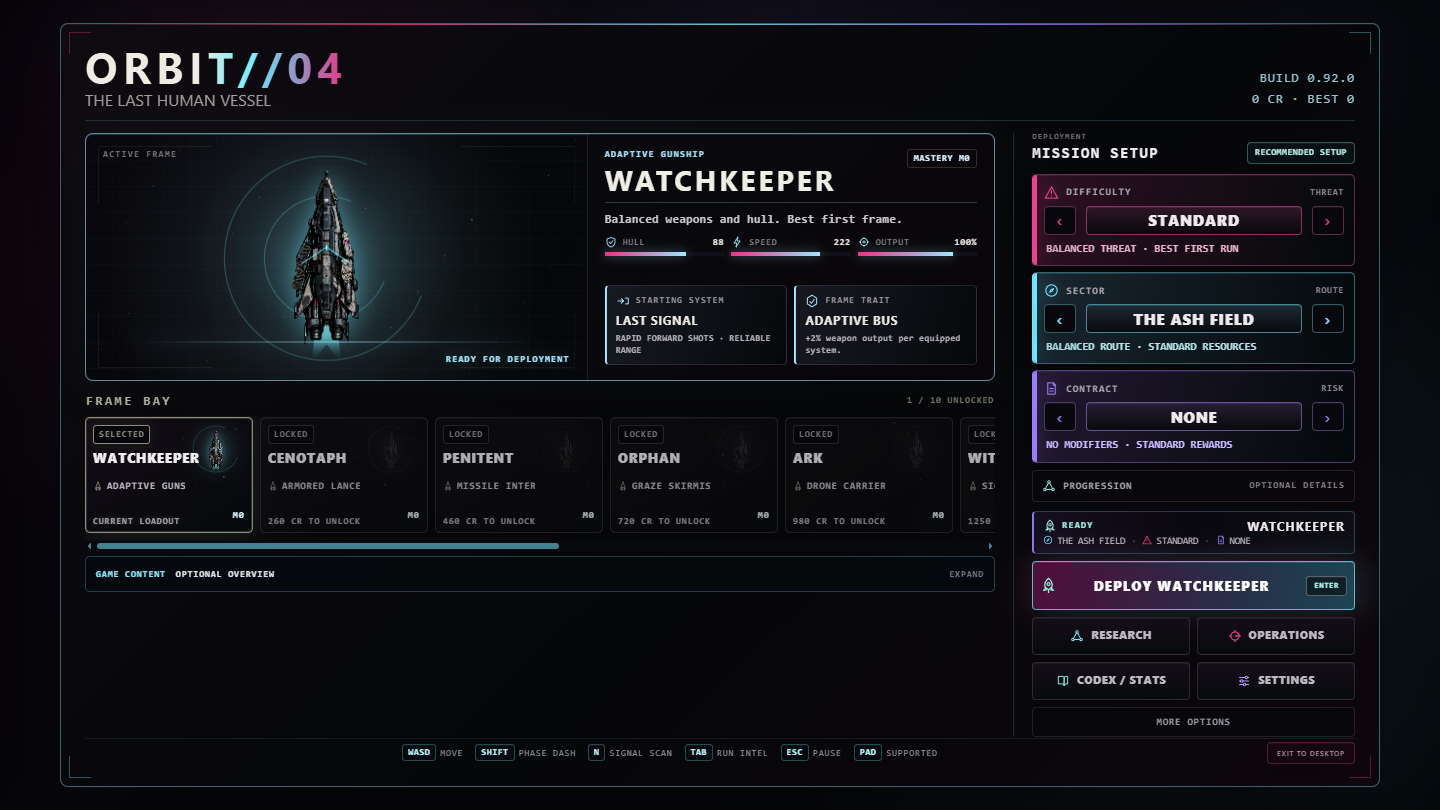
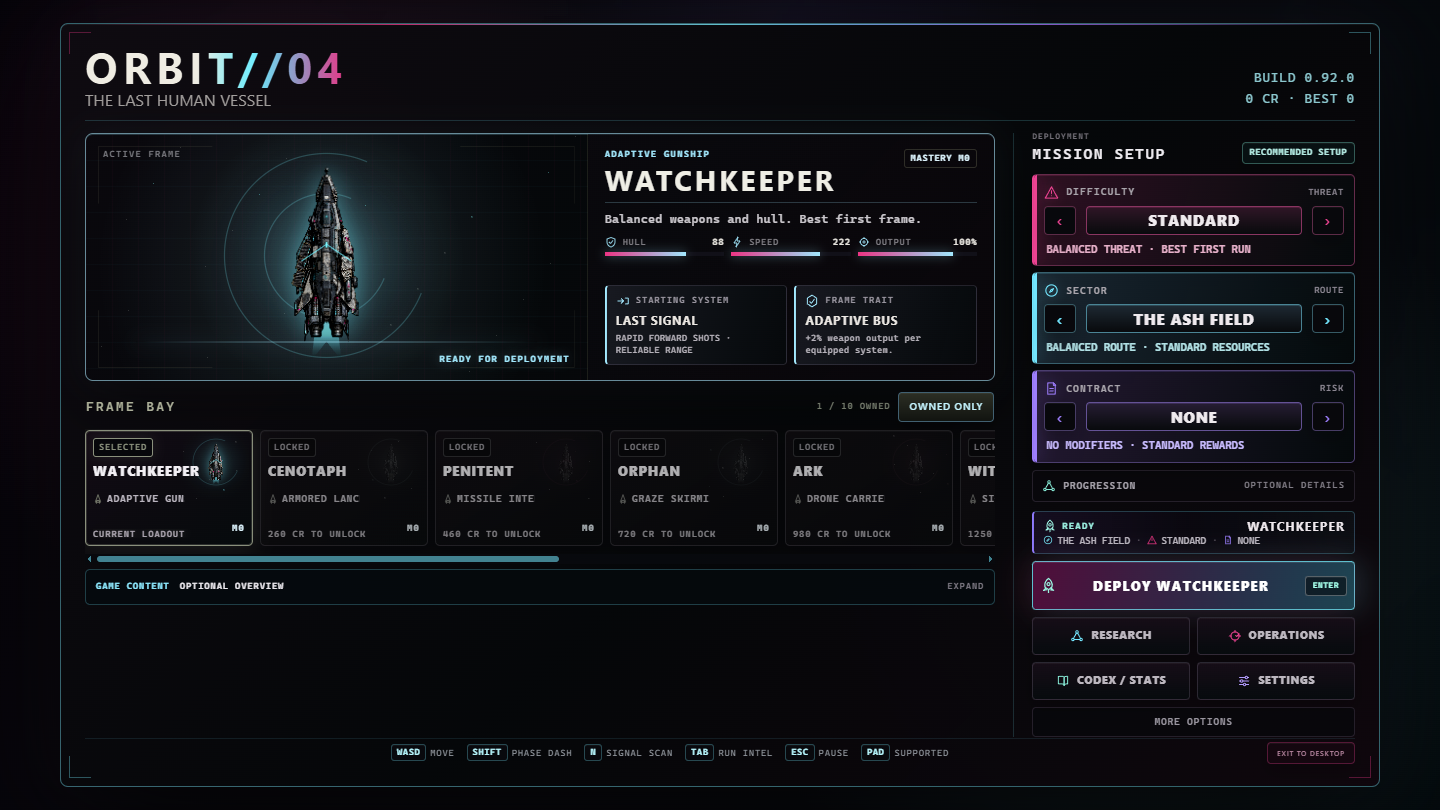
feat: preview locked frames and improve menu navigation

diff --git a/game.js b/game.js
@@ -469,6 +469,19 @@ function renderShipCanvas(canvas,id,large=false,locked=false){
   }
   ctx.save();ctx.fillStyle=locked?'rgba(151,155,147,.34)':hex(pal.accent,.64);ctx.font=`600 ${large?11:7}px ui-monospace, monospace`;ctx.textAlign='center';ctx.textBaseline='middle';ctx.fillText(hangarHullImageFailed?'HULL ASSET OFFLINE':'LOADING HULL',cx,cy);ctx.restore();return false;
 }
+let previewFrameId='',ownedFramesOnly=false;
+function frameUnlockCost(id){return id==='oracle'&&save.achievements.includes('iff_friend')?Math.floor(SHIPS[id].cost*.7):SHIPS[id].cost}
+function previewFrame(id){
+  if(!SHIPS[id])return false;previewFrameId=id;
+  if(save.unlocked.includes(id)){save.selected=id;persist(false)}
+  AUDIO.sfx('ui');renderMenu();return true
+}
+function unlockPreviewFrame(){
+  const id=previewFrameId;if(!SHIPS[id]||save.unlocked.includes(id))return false;
+  const cost=frameUnlockCost(id);if(save.credits<cost)return false;
+  save.credits-=cost;save.unlocked.push(id);save.selected=id;persist(false);checkMetaAchievements();renderMenu();
+  $('startBtn').focus?.({preventScroll:true});AUDIO.sfx('research');toast('FRAME UNLOCKED',`${SHIPS[id].name} is ready for deployment.`);return true
+}
 function renderFrameBrief(id){
   const s=SHIPS[id]||SHIPS.striker,w=WEAPON_META[s.weapon],mastery=masteryLevel(id),pal=hangarShipPalette(id);
   $('frameStage').style['--frame-accent']=pal.accent;$('frameStage').style['--frame-edge']=pal.edge;
@@ -476,27 +489,37 @@ function renderFrameBrief(id){
   $('frameWeapon').textContent=w.name;$('frameWeaponDesc').textContent=w.quick||w.desc;$('frameWeaponCard').title=w.desc;$('frameTrait').textContent=s.trait;$('frameTraitDesc').textContent=s.traitDesc;$('frameTraitCard').title=s.traitDesc;$('frameAvailability').textContent='READY FOR DEPLOYMENT';
   $('frameHullValue').textContent=s.hp;$('frameSpeedValue').textContent=s.speed;$('frameOutputValue').textContent=`${Math.round(s.damage*100)}%`;
   $('frameHullBar').style.width=`${clamp(s.hp/130*100,8,100)}%`;$('frameSpeedBar').style.width=`${clamp(s.speed/300*100,8,100)}%`;$('frameOutputBar').style.width=`${clamp(s.damage/1.25*100,8,100)}%`;
-  $('frameRosterCount').textContent=`${save.unlocked.length} / ${Object.keys(SHIPS).length} UNLOCKED`;renderShipCanvas($('framePreview'),id,true,false);
+  const locked=!save.unlocked.includes(id),cost=frameUnlockCost(id);
+  $('frameAvailability').textContent=locked?'LOCKED FRAME PREVIEW':'READY FOR DEPLOYMENT';
+  $('framePurchase').classList.toggle('hidden',!locked);
+  $('framePurchaseHint').textContent=locked?`${save.credits} CR AVAILABLE${save.credits<cost?` · NEED ${cost-save.credits} MORE`:''}`:'';
+  $('frameUnlockBtn').textContent=`UNLOCK ${s.name} · ${cost} CR`;$('frameUnlockBtn').disabled=!locked||save.credits<cost;
+  $('frameRosterCount').textContent=`${save.unlocked.length} / ${Object.keys(SHIPS).length} OWNED`;renderShipCanvas($('framePreview'),id,true,false);
 }
 function cycleUnlockedFrame(direction=1){
   const frames=Object.keys(SHIPS).filter(id=>save.unlocked.includes(id));if(frames.length<2)return false;
-  const current=Math.max(0,frames.indexOf(save.selected));save.selected=frames[(current+direction+frames.length)%frames.length];AUDIO.sfx('ui');persist();return true
+  const current=Math.max(0,frames.indexOf(save.selected));save.selected=frames[(current+direction+frames.length)%frames.length];previewFrameId=save.selected;AUDIO.sfx('ui');persist();return true
 }
 function renderMenu(){
   $('saveLine').textContent=`${save.credits} CR · BEST ${Math.floor(save.bestScore)}`;
   $('researchLevelText').textContent=researchLevels();$('achievementCountText').textContent=`${save.achievements.length}/${Object.keys(ACHIEVEMENTS).length}`;$('lifetimeKillsText').textContent=save.totalKills;$('operationCountText').textContent=`${save.claimedOperations.length}/${Object.keys(OPERATIONS).length}${readyOperations().length?` · ${readyOperations().length} READY`:''}`;
   $('contentFrameCount').textContent=Object.keys(SHIPS).length;$('contentWeaponCount').textContent=Object.keys(WEAPON_META).length;$('contentEnemyCount').textContent=Object.keys(ENEMY_META).filter(id=>id!=='boss').length;$('contentLinkCount').textContent=Object.keys(SYNERGIES).length;$('contentSectorCount').textContent=Object.keys(SECTORS).length;
   const d=DIFFICULTIES[save.difficulty]||DIFFICULTIES.STANDARD;$('difficultyBtn').textContent=d.name;$('difficultyBtn').title=d.desc;$('difficultyBtn').setAttribute('aria-label',`Current difficulty: ${d.name}. ${d.desc}`);$('difficultyDesc').textContent=d.menu||d.desc;const contract=CONTRACTS[save.contract]||CONTRACTS.NONE;$('contractBtn').textContent=contract.name;$('contractBtn').title=contract.desc;$('contractBtn').setAttribute('aria-label',`Current contract: ${contract.name}. ${contract.desc}`);$('contractDesc').textContent=contract.menu||contract.desc;const sector=SECTORS[save.sector]||SECTORS.AURORA;$('sectorBtn').textContent=sector.name;$('sectorBtn').title=sector.desc;$('sectorBtn').setAttribute('aria-label',`Current sector: ${sector.name}. ${sector.desc}`);$('sectorDesc').textContent=sector.menu||sector.desc;
-  const selectedId=save.unlocked.includes(save.selected)&&SHIPS[save.selected]?save.selected:'striker';if(save.selected!==selectedId)save.selected=selectedId;renderFrameBrief(selectedId);
+  const selectedId=save.unlocked.includes(save.selected)&&SHIPS[save.selected]?save.selected:'striker';if(save.selected!==selectedId)save.selected=selectedId;
+  const briefId=SHIPS[previewFrameId]&&!save.unlocked.includes(previewFrameId)&&!ownedFramesOnly?previewFrameId:selectedId;renderFrameBrief(briefId);
   const selectedShip=SHIPS[selectedId];$('launchSummary').innerHTML=`<span>${uiIconMarkup('launch')} READY</span><b>${selectedShip.name}</b><i>${uiIconMarkup('sector')} ${sector.name} <em>·</em> ${uiIconMarkup('threat')} ${d.name} <em>·</em> ${uiIconMarkup('contract')} ${contract.name}</i>`;$('startBtn').innerHTML=`${uiIconMarkup('launch')}<span>DEPLOY ${selectedShip.name}</span><kbd>ENTER</kbd>`;
-  const grid=$('shipGrid');grid.innerHTML='';
+  const grid=$('shipGrid'),scrollLeft=grid.scrollLeft||0,focusedFrame=document.activeElement?.dataset?.frameId;grid.innerHTML='';
+  $('frameFilterBtn').setAttribute('aria-pressed',String(ownedFramesOnly));$('frameFilterBtn').textContent=ownedFramesOnly?'SHOW ALL FRAMES':'OWNED ONLY';
   for(const [id,s] of Object.entries(SHIPS)){
+    if(ownedFramesOnly&&!save.unlocked.includes(id))continue;
     const unlocked=save.unlocked.includes(id),selected=save.selected===id;const b=document.createElement('button');b.className=`shipCard${selected?' selected':''}`;
-    const cost=id==='oracle'&&save.achievements.includes('iff_friend')?Math.floor(s.cost*.7):s.cost;
+    const cost=frameUnlockCost(id);b.dataset.frameId=id;b.setAttribute('aria-pressed',String(briefId===id));b.classList.toggle('previewed',briefId===id&&!selected);
     const mastery=masteryLevel(id);b.style['--ship-accent']=hangarShipPalette(id).accent;b.dataset.state=selected?'selected':unlocked?'available':'locked';b.setAttribute('aria-label',`${s.name}, ${s.role}${unlocked?', unlocked':`, locked, ${cost} credits`}`);b.innerHTML=`<span class="shipCardBadge">${selected?'SELECTED':unlocked?'READY':'LOCKED'}</span><canvas class="shipThumb" width="150" height="68" aria-hidden="true"></canvas><span class="shipCardTop"><b class="shipName">${s.name}</b><i style="color:${masteryColor(mastery)}">M${mastery}</i></span><span class="shipCardRole">${uiIconMarkup('frame')}${s.role}</span><span class="shipCardStatus">${selected?'CURRENT LOADOUT':unlocked?'SELECT FRAME':`${cost} CR TO UNLOCK`}</span>`;
-    b.onclick=()=>{AUDIO.sfx('ui');if(!unlocked){if(save.credits>=cost){save.credits-=cost;save.unlocked.push(id);save.selected=id;persist();checkMetaAchievements()}else toast('INSUFFICIENT CREDITS',`You need ${cost-save.credits} more credits to unlock ${s.name}.`);return}save.selected=id;persist()};grid.appendChild(b);
+    b.onclick=()=>previewFrame(id);grid.appendChild(b);
     renderShipCanvas(b.querySelector('canvas'),id,false,!unlocked);
+    if(focusedFrame===id)b.focus?.({preventScroll:true});
   }
+  grid.scrollLeft=scrollLeft;
   $('startBtn').disabled=!save.unlocked.includes(save.selected);
   const singleFrame=save.unlocked.filter(id=>SHIPS[id]).length<2;$('framePrevBtn').disabled=singleFrame;$('frameNextBtn').disabled=singleFrame;
   if(SUPPORT_URL&&BUILD_TARGET==='web')$('supportBtn').classList.remove('hidden');else $('supportBtn').classList.add('hidden');
@@ -624,18 +647,18 @@ const keys={},touch={active:false,startX:0,startY:0,x:0,y:0},mouse={active:false
 addEventListener('pointerdown',()=>AUDIO.ensure(),{passive:true});
 addEventListener('keydown',e=>{
   const k=e.key.toLowerCase();if(k==='tab'&&(e.altKey||e.metaKey)){keys[k]=false;return}keys[k]=true;AUDIO.ensure();
-  if(['arrowup','arrowdown','arrowleft','arrowright',' ','tab'].includes(k))e.preventDefault();
+  if(!visibleOverlay()&&['arrowup','arrowdown','arrowleft','arrowright',' ','tab'].includes(k))e.preventDefault();
   if($('briefingScreen').classList.contains('show')){if(['enter',' ','escape'].includes(k))dismissPilotBriefing();return}
   if($('confirmScreen').classList.contains('show')){if(k==='escape')closeRunConfirmation();return}
   if($('titleScreen').classList.contains('show')&&!e.repeat){
     if(k==='q'){cycleUnlockedFrame(-1);return}if(k==='e'){cycleUnlockedFrame(1);return}
-    if(k==='enter'&&!['BUTTON','INPUT','SELECT','TEXTAREA'].includes(e.target?.tagName)){startRun();return}
+    if(k==='enter'&&!['BUTTON','INPUT','SELECT','TEXTAREA','SUMMARY'].includes(e.target?.tagName)){startRun();return}
   }
   if(state?.reliquaryOpen){if(['escape','enter',' ','e'].includes(k)){reliquarySequence?.complete?claimReliquary():revealReliquaryNow()}return}
   if(state?.archiveOpen){if(['escape','enter',' ','e'].includes(k))closeArchiveFragment();return}
   if(k==='escape'&&$('loadoutScreen').classList.contains('show')){closeRunIntel();return}
   if(k==='escape'&&$('settingsScreen').classList.contains('show')){hide('settingsScreen');return}
-  if((k==='tab'||k==='b')&&state?.mode==='run'&&!state.choosing&&!$('settingsScreen').classList.contains('show')){$('loadoutScreen').classList.contains('show')?closeRunIntel():openRunIntel();return}
+if((k==='tab'||k==='b')&&state?.mode==='run'&&(!visibleOverlay()||$('loadoutScreen').classList.contains('show'))&&!state.choosing&&!$('settingsScreen').classList.contains('show')){$('loadoutScreen').classList.contains('show')?closeRunIntel():openRunIntel();return}
   if((k==='p'||k==='escape')&&state?.mode==='run'&&!state.choosing&&!$('settingsScreen').classList.contains('show'))togglePause();
   if(k==='shift'&&!e.repeat)tryPhaseDash();if(k==='n'&&!e.repeat&&state?.mode==='run'&&!state.choosing&&!state.paused)cycleSignalFilter();if(k==='r'&&state?.gameOver)startRun();if(k==='f')toggleFullscreen();
   if(k==='m'){save.settings.audio=save.settings.audio==='ON'?'OFF':'ON';persist(false);AUDIO.syncEnabled();renderSettings();AUDIO.sfx('ui');toast(save.settings.audio==='ON'?'AUDIO ENABLED':'AUDIO MUTED','Press M to toggle output.')}
@@ -657,7 +680,7 @@ function toggleFullscreen(){document.fullscreenElement?document.exitFullscreen()
 
 function pollGamepadPause(){const gps=navigator.getGamepads?.()||[],gp=gps.find(Boolean),pressed=!!(gp&&(gp.buttons[9]?.pressed||gp.buttons[8]?.pressed));if(pressed&&!gamepadPauseLatch&&state?.mode==='run'&&!state.choosing&&!state.archiveOpen&&!state.reliquaryOpen&&!$('settingsScreen').classList.contains('show'))togglePause();gamepadPauseLatch=pressed}
 function visibleOverlay(){const overlays=[...(document.querySelectorAll?.('.overlay.show')||[])];return overlays.at(-1)||null}
-function gamepadUiButtons(overlay){return overlay?[...overlay.querySelectorAll('button')].filter(b=>!b.disabled&&!b.classList.contains('hidden')&&b.offsetParent!==null):[]}
+function gamepadUiButtons(overlay){return overlay?[...overlay.querySelectorAll('button, summary')].filter(b=>{const closed=b.closest('details:not([open])');return !b.disabled&&!b.classList.contains('hidden')&&b.offsetParent!==null&&(!closed||b.tagName==='SUMMARY'&&b.parentElement===closed)}):[]}
 function focusGamepadDefault(overlay,buttons){if(!buttons.length)return;const preferred=buttons.find(b=>b.classList.contains('primary'))||buttons.find(b=>b.classList.contains('selected'))||buttons[0];preferred.focus?.({preventScroll:true});preferred.scrollIntoView?.({block:'nearest',inline:'nearest'})}
 function moveGamepadFocus(buttons,dx,dy){if(!buttons.length)return;let cur=document.activeElement;if(!buttons.includes(cur)){focusGamepadDefault(visibleOverlay(),buttons);return}const r=cur.getBoundingClientRect(),cx=r.left+r.width/2,cy=r.top+r.height/2;let best=null,bestScore=Infinity;for(const b of buttons){if(b===cur)continue;const q=b.getBoundingClientRect(),x=q.left+q.width/2,y=q.top+q.height/2,vx=x-cx,vy=y-cy;if(dx&&Math.sign(vx)!==Math.sign(dx)||dy&&Math.sign(vy)!==Math.sign(dy))continue;const primary=dx?Math.abs(vx):Math.abs(vy),cross=dx?Math.abs(vy):Math.abs(vx),score=primary+cross*2.4;if(primary<3||score>=bestScore)continue;best=b;bestScore=score}if(!best){const i=buttons.indexOf(cur),step=dx<0||dy<0?-1:1;best=buttons[(i+step+buttons.length)%buttons.length]}best.focus?.({preventScroll:true});best.scrollIntoView?.({block:'nearest',inline:'nearest'});AUDIO.sfx('ui')}
 function gamepadBack(overlay){if(!overlay)return;const back=overlay.querySelector('[data-close], #confirmCancelBtn, #archiveContinueBtn, #reliquaryClaimBtn:not(.hidden), #reliquarySkipBtn:not(.hidden), #loadoutBackBtn, #settingsBackBtn, #resumeBtn');if(back&&!back.disabled){back.click();back.focus?.({preventScroll:true})}}
@@ -836,6 +859,9 @@ function startRun(){
 }
 $('startBtn').onclick=startRun;
 $('framePrevBtn').onclick=()=>cycleUnlockedFrame(-1);$('frameNextBtn').onclick=()=>cycleUnlockedFrame(1);
+$('frameUnlockBtn').onclick=unlockPreviewFrame;
+$('frameReturnBtn').onclick=()=>{previewFrameId='';renderMenu();$('startBtn').focus?.()};
+$('frameFilterBtn').onclick=()=>{ownedFramesOnly=!ownedFramesOnly;previewFrameId='';renderMenu();AUDIO.sfx('ui')};
 function gainXp(n){state.xp+=xpGain(n)*(state.sector?.xp||1);while(state.xp>=state.xpNeed&&!state.choosing){state.xp-=state.xpNeed;state.level++;state.xpNeed=Math.floor(state.xpNeed*1.16+4);save.stats.highestLevel=Math.max(save.stats.highestLevel,state.level);if((state.level===10||state.level===20)&&state.doctrinePicks<2)openDoctrine(true);else openLevel();break}}
 function enemyBase(type){return {scout:{hp:24,speed:52,r:9,damage:13,xp:1,color:'#ff4d86'},charger:{hp:42,speed:89,r:8,damage:17,xp:2,color:'#ff684c'},tank:{hp:118,speed:31,r:15,damage:26,xp:3,color:'#d79d49'},gunner:{hp:58,speed:39,r:11,damage:14,xp:3,color:'#ff2d82'},splitter:{hp:66,speed:46,r:12,damage:18,xp:3,color:'#d64b79'},sniper:{hp:48,speed:30,r:10,damage:12,xp:4,color:'#a879ff'},stalker:{hp:51,speed:67,r:9,damage:16,xp:3,color:'#d84dbe'},weaver:{hp:72,speed:43,r:11,damage:13,xp:4,color:'#7b82ff'},warden:{hp:142,speed:27,r:16,damage:18,xp:6,color:'#51c6a8'},reaper:{hp:74,speed:76,r:10,damage:20,xp:4,color:'#bdf34b'},harrower:{hp:86,speed:48,r:12,damage:15,xp:5,color:'#ff8b3d'},moth:{hp:34,speed:72,r:8,damage:14,xp:2,color:'#e75cff'},anchor:{hp:96,speed:34,r:13,damage:13,xp:5,color:'#5f7cff'}}[type]}
 function selectEnemyType(time,roll){if(time>330&&roll<.035)return'harrower';if(time>235&&roll<.075)return'anchor';if(time>270&&roll<.12)return'reaper';if(time>260&&roll<.16)return'warden';if(time>210&&roll<.215)return'sniper';if(time>165&&roll<.30)return'weaver';if(time>150&&roll<.39)return'splitter';if(time>100&&roll<.48)return'gunner';if(time>95&&roll<.56)return'moth';if(time>80&&roll<.61)return'stalker';if(time>55&&roll<.69)return'charger';const tankCeiling=time>55?.84:.14;if(time>25&&roll<tankCeiling)return'tank';return'scout'}

diff --git a/tests/smoke.js b/tests/smoke.js
@@ -40,6 +40,12 @@ vm.runInContext(`
   if(!rendererConfig.render.antialiasGL||!rendererConfig.render.desynchronized||rendererConfig.fps.target!==120) throw new Error('premium renderer profile is incomplete');
   save.settings.audio='OFF';document.getElementById('difficultyPrev').onclick();if(save.difficulty!=='HARDLINE') throw new Error('previous difficulty control failed');document.getElementById('difficultyNext').onclick();if(save.difficulty!=='STANDARD') throw new Error('next difficulty control failed');document.getElementById('contractPrev').onclick();if(save.contract!=='FRAGILE') throw new Error('previous contract control failed');document.getElementById('contractNext').onclick();if(save.contract!=='NONE') throw new Error('next contract control failed');if(!document.getElementById('launchSummary').innerHTML.includes('WATCHKEEPER')||!document.getElementById('startBtn').innerHTML.includes('DEPLOY WATCHKEEPER')||!document.getElementById('startBtn').innerHTML.includes('ENTER')) throw new Error('deployment summary is incomplete');if(Number(document.getElementById('contentFrameCount').textContent)!==10||Number(document.getElementById('contentWeaponCount').textContent)!==11||Number(document.getElementById('contentEnemyCount').textContent)!==13||Number(document.getElementById('contentLinkCount').textContent)!==9||Number(document.getElementById('contentSectorCount').textContent)!==4)throw new Error('menu content proof does not match runtime data');save.difficulty='BLACKOUT';save.sector='NULL';save.contract='SWARM';if(!applyRecommendedSetup()||save.difficulty!=='STANDARD'||save.sector!=='AURORA'||save.contract!=='NONE')throw new Error('recommended first-run setup failed');save.briefingSeen=false;if(!previewPilotBriefing()||!document.getElementById('briefingScreen').classList.contains('show')||!dismissPilotBriefing()||document.getElementById('briefingScreen').classList.contains('show')||!save.briefingSeen)throw new Error('menu pilot guide preview failed');if(!document.getElementById('framePrevBtn').disabled||!document.getElementById('frameNextBtn').disabled)throw new Error('single-frame hangar navigation should be disabled');save.unlocked.push('bastion');if(!cycleUnlockedFrame(1)||save.selected!=='bastion')throw new Error('next-frame hangar shortcut failed');if(!cycleUnlockedFrame(-1)||save.selected!=='striker')throw new Error('previous-frame hangar shortcut failed');save.unlocked.pop();renderMenu();
   if(document.getElementById('framePreview').dataset.shipAsset!==ENGINE_ASSETS.player||document.getElementById('framePreview').dataset.previewSource!=='runtime-player-hull'||document.getElementById('framePreview').dataset.frame!==save.selected)throw new Error('hangar preview is not bound to the deployed player hull');
+  const beforeHangar={credits:save.credits,selected:save.selected,unlocked:[...save.unlocked]};
+  save.credits=0;previewFrame('bastion');if(save.selected!==beforeHangar.selected||save.credits!==0||unlockPreviewFrame()||!document.getElementById('frameUnlockBtn').disabled)throw new Error('locked preview must not select or buy an unaffordable frame');
+  save.credits=SHIPS.bastion.cost;previewFrame('bastion');if(save.credits!==SHIPS.bastion.cost||save.unlocked.includes('bastion'))throw new Error('preview spent credits without unlock action');
+  if(!unlockPreviewFrame()||save.credits!==0||save.selected!=='bastion'||!save.unlocked.includes('bastion')||unlockPreviewFrame())throw new Error('explicit unlock must charge exactly once and select the frame');
+  document.getElementById('frameFilterBtn').onclick();if(document.getElementById('shipGrid').children.length!==save.unlocked.length)throw new Error('owned frame filter leaked locked cards');document.getElementById('frameFilterBtn').onclick();if(document.getElementById('shipGrid').children.length!==Object.keys(SHIPS).length)throw new Error('all frames filter did not restore the roster');
+  save.credits=beforeHangar.credits;save.selected=beforeHangar.selected;save.unlocked=beforeHangar.unlocked;previewFrameId='';renderMenu();
   if(!document.getElementById('difficultyDesc').textContent.includes('BEST FIRST RUN')||!document.getElementById('sectorDesc').textContent.includes('STANDARD RESOURCES')||!document.getElementById('frameWeaponDesc').textContent.includes('RAPID FORWARD SHOTS'))throw new Error('main menu info boxes do not explain player outcomes');
   if(selectFieldDirective()!=='recovery') throw new Error('first directive rotation is incorrect');save.runs=1;if(selectFieldDirective()!=='transit') throw new Error('second directive rotation is incorrect');save.runs=2;if(selectFieldDirective()!=='attrition') throw new Error('third directive rotation is incorrect');save.runs=0;startRun();
   save.briefingSeen=false;if(!openPilotBriefing()||!state.paused||!document.getElementById('briefingScreen').classList.contains('show'))throw new Error('first-deployment briefing did not suspend the run');if(!dismissPilotBriefing()||state.paused||!save.briefingSeen||document.getElementById('briefingScreen').classList.contains('show'))throw new Error('first-deployment briefing did not persist completion');

diff --git a/styles.css b/styles.css
@@ -471,6 +471,9 @@ button:hover:not(:disabled){border-color:rgba(195,190,140,.78);background:linear
 #titleScreen .footerHelp kbd{font-size:calc(8px * var(--ui-scale))}
 
 /* Focused launch flow: essential choices stay visible; secondary detail is opt-in. */
+#titleScreen .rosterHeading{flex-wrap:wrap;gap:8px}#titleScreen .rosterHeading>span{margin-left:auto}#titleScreen #frameFilterBtn{min-height:30px;padding:6px 10px;font-size:10px;border-color:#376071;color:#b9f4ff}#titleScreen #frameFilterBtn[aria-pressed="true"]{background:#123640;border-color:#55e1ef;color:#fff}
+#titleScreen .framePurchase{display:flex;flex-wrap:wrap;align-items:center;gap:8px;margin:8px 0;padding:10px;border:1px solid #75619d;border-radius:5px;background:#100f1d}#titleScreen .framePurchase.hidden{display:none}#titleScreen .framePurchase>span{flex:1 1 150px;font:600 12px/1.4 var(--mono);color:#d6c8ed}#titleScreen .framePurchase button{min-height:36px;font-size:11px}#titleScreen #frameUnlockBtn{border-color:#a780eb;color:#eee0ff}
+#titleScreen .shipCard.previewed{border-color:#b48aff;box-shadow:inset 0 0 0 1px #b48aff}#titleScreen .shipCard:focus-visible,summary:focus-visible{outline:2px solid #79edff;outline-offset:2px}
 #titleScreen .menuColumns{grid-template-columns:minmax(0,2.45fr) minmax(336px,.92fr);gap:18px}#titleScreen .frameStage{height:248px}
 #titleScreen .shipGrid{display:grid;grid-template-columns:none;grid-auto-flow:column;grid-auto-columns:minmax(168px,1fr);gap:7px;max-width:100%;overflow-x:auto;overflow-y:hidden;padding:1px 1px 8px;scroll-snap-type:x proximity;scrollbar-width:thin;scrollbar-color:rgba(53,231,255,.55) rgba(8,9,13,.9)}
 #titleScreen .shipGrid::-webkit-scrollbar{height:6px}#titleScreen .shipGrid::-webkit-scrollbar-track{background:rgba(8,9,13,.9);border-radius:4px}#titleScreen .shipGrid::-webkit-scrollbar-thumb{background:linear-gradient(90deg,#ff3d91,#35e7ff);border-radius:4px}

diff --git a/index.html b/index.html
@@ -98,7 +98,8 @@
               </div>
             </div>
           </div>
-          <div class="rosterHeading"><h2>FRAME BAY</h2><span id="frameRosterCount"></span></div>
+          <div id="framePurchase" class="framePurchase hidden"><span id="framePurchaseHint" role="status"></span><button id="frameUnlockBtn">UNLOCK FRAME</button><button id="frameReturnBtn">BACK TO ACTIVE SHIP</button></div>
+          <div class="rosterHeading"><h2>FRAME BAY</h2><span id="frameRosterCount"></span><button id="frameFilterBtn" aria-pressed="false">OWNED ONLY</button></div>
           <div id="shipGrid" class="shipGrid"></div>
           <details class="releaseOverview" aria-labelledby="releaseOverviewTitle">
             <summary><span>GAME CONTENT</span><b id="releaseOverviewTitle">OPTIONAL OVERVIEW</b><i>EXPAND</i></summary>

diff --git a/README.md b/README.md
@@ -32,7 +32,7 @@ The supported runtime is the top-down game loaded by `index.html`. Three.js is t
 ## Implemented game systems
 
 - 10 configurations of the single ORBIT//04 ark, each with individual statistics, a starting weapon, and a trait
-- a focused launch hangar with an authentic vector preview of every frame, explicit previous/next deployment controls, comparable ratings, and a final launch summary
+- a focused launch hangar using the deployed hull asset, an owned-frame filter, comparable ratings, and a separate credit purchase after previewing a locked frame
 - a data-driven content overview in the launch hangar that states the shipped frame, weapon, hostile, synergy, and sector counts alongside the offline, advertising-free ownership model
 - a one-screen first-deployment briefing that explains automatic fire, movement, upgrades, signal colors, keyboard controls, and standard gamepad controls without interrupting later runs
 - 11 automatic weapon systems rethemed around grief, survival instinct, memory, and absence
@@ -63,7 +63,7 @@ The supported runtime is the top-down game loaded by `index.html`. Three.js is t
 - a three-count safe return from manual pause plus automatic run protection when a connected controller is removed
 - one concise Field Directive per run, rotating between exploration, travel, and attrition objectives with existing-system rewards
 - live Run Intel for weapon contribution, modules, links, doctrines, protocols, artifacts, and mission conditions
-- keyboard, mouse, and gamepad movement
+- keyboard, mouse, and gamepad movement, with keyboard focus and gamepad access to expandable menu sections
 - native desktop exit handling that can bank an active run before closing instead of silently discarding earned progress
 - layered 48 kHz stereo sound playback with automatic context recovery, verified mixer status, mute warnings, and an in-game output check
 - independent 0–100% SFX and music sliders with 5% precision, immediate mix updates, and keyboard/gamepad adjustment controls

diff --git a/CHANGELOG.md b/CHANGELOG.md
@@ -2,6 +2,10 @@
 
 ## 0.92.0 — Hostile Ecology and Resonance
 
+- added locked-frame previews with explicit credit purchases and an owned-frame roster filter
+- preserved roster position and card focus after frame selection
+- restored native keyboard Tab navigation in menus and gamepad access to expandable sections
+
 - raised regular-wave population and spawn cadence while retaining pressure braking, boss-approach relief, and the existing boss scaling
 - added Grave Moths with rapid alternating pursuit cuts and Null Anchors with range-holding six-way needle lattices
 - added distinct silhouettes, motion profiles, accents, intent markers, telegraphs, and Codex descriptions for both new hostile classes
